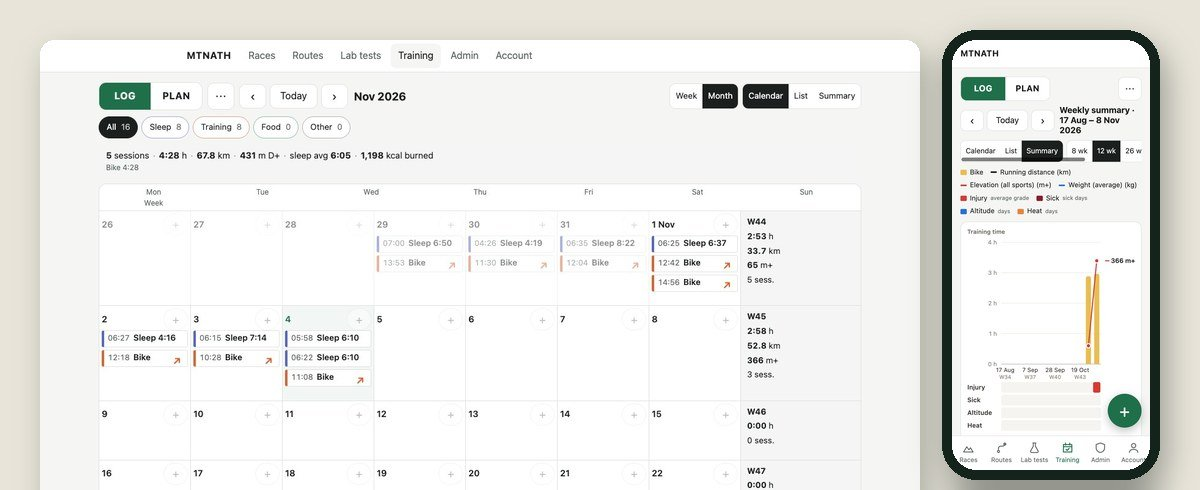
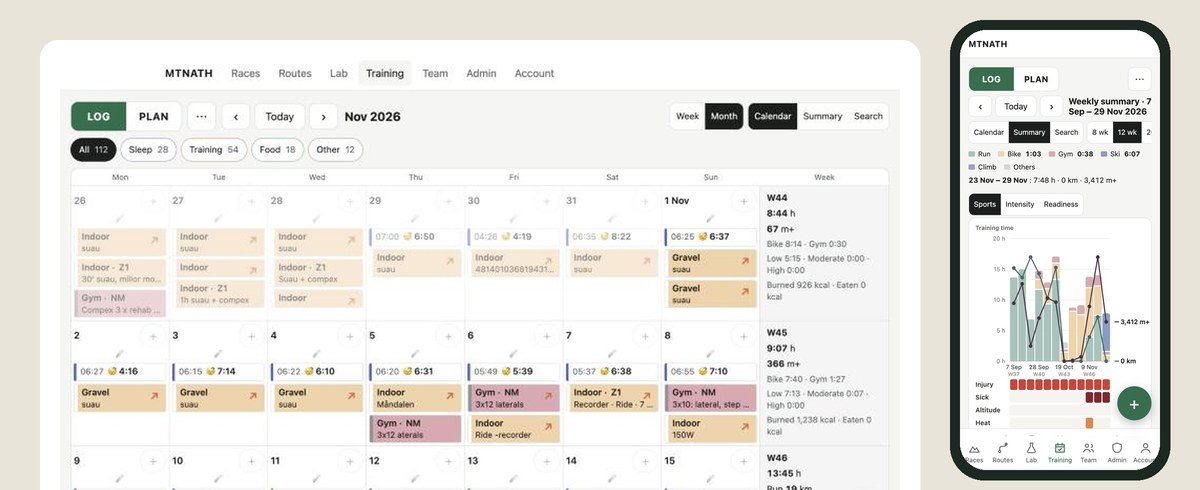
Instructions: Team page + new Training log screenshot (#1)
* Instructions: add the Team page (section 13) and a new Training log screenshot

Claude-Session: https://claude.ai/code/session_01DCeZVPnaAV1NLa2BAzX7rc

* Instructions: new card colours, card text and June 2025 calendar screenshot

Claude-Session: https://claude.ai/code/session_01DCeZVPnaAV1NLa2BAzX7rc

---------

diff --git a/instructions/index.html b/instructions/index.html
@@ -1,6 +1,6 @@
 <!doctype html><html lang="en"><head><meta charset="utf-8"><meta name="viewport" content="width=device-width,initial-scale=1">
 <title>Instructions · MTNATH</title>
-<meta name="description" content="User guide for app.mtnath.com: races, routes, lab tests, recorder, training log and plan, connections and coach sharing.">
+<meta name="description" content="User guide for app.mtnath.com: races, routes, lab tests, recorder, training log and plan, connections, coach sharing and the Team page for coaches.">
 <link rel="icon" href="/assets/favicon.svg" type="image/svg+xml">
 <link rel="stylesheet" href="/assets/sitebar.css">
 
@@ -40,8 +40,8 @@ code{background:var(--code);padding:1px 5px;border-radius:4px}pre code{backgroun
 @media print{nav,#top{display:none}.wrap{display:block}main{border:0;padding:0;margin:0}h2{break-before:page}figure{break-inside:avoid}}
 </style></head><body><header class="sitebar"><div class="in"><a class="logo" href="/">MTNATH</a><nav aria-label="Site"><a href="/">Home</a><a href="/instructions/" aria-current="page">Instructions</a><a href="/methods/">Methods</a><a href="/legal/">Legal</a></nav><a class="cta" href="https://app.mtnath.com">Open the app</a></div></header>
 <div class="wrap">
-<nav><p class="brand">MTNATH</p><p>User guide · app.mtnath.com</p><ol><li><a href="#principles">Principles</a></li><li><a href="#1-getting-started">1. Getting started</a></li><li><a href="#2-races-race-planner">2. Races — race planner</a></li><li><a href="#3-routes-route-planner">3. Routes — route planner</a></li><li><a href="#4-lab-tests">4. Lab</a></li><li><a href="#5-recorder-lab-and-indoor-sessions">5. Recorder — lab and indoor sessions</a></li><li><a href="#6-compare-activities-on-top-of-each-other">6. Compare — activities on top of each other</a></li><li><a href="#7-training-log">7. Training log</a></li><li><a href="#8-training-plan">8. Training plan</a></li><li><a href="#9-visualizer-merge-and-read-activity-files">9. Visualizer — merge and read activity files</a></li><li><a href="#10-account-and-connections">10. Account and connections</a></li><li><a href="#12-sharing-with-a-coach">12. Sharing with a coach</a></li></ol></nav>
-<main><header><h1>Instructions app.mtnath.com</h1><p>2026-11-07 · Kilian Jornet</p></header>
+<nav><p class="brand">MTNATH</p><p>User guide · app.mtnath.com</p><ol><li><a href="#principles">Principles</a></li><li><a href="#1-getting-started">1. Getting started</a></li><li><a href="#2-races-race-planner">2. Races — race planner</a></li><li><a href="#3-routes-route-planner">3. Routes — route planner</a></li><li><a href="#4-lab-tests">4. Lab</a></li><li><a href="#5-recorder-lab-and-indoor-sessions">5. Recorder — lab and indoor sessions</a></li><li><a href="#6-compare-activities-on-top-of-each-other">6. Compare — activities on top of each other</a></li><li><a href="#7-training-log">7. Training log</a></li><li><a href="#8-training-plan">8. Training plan</a></li><li><a href="#9-visualizer-merge-and-read-activity-files">9. Visualizer — merge and read activity files</a></li><li><a href="#10-account-and-connections">10. Account and connections</a></li><li><a href="#12-sharing-with-a-coach">12. Sharing with a coach</a></li><li><a href="#13-team-follow-several-athletes">13. Team — follow several athletes</a></li></ol></nav>
+<main><header><h1>Instructions app.mtnath.com</h1><p>2026-11-25 · Kilian Jornet</p></header>
 
 <h2 id="principles">Principles</h2>
 <ol><li><p><strong>Your data is yours.</strong> You own all of it, decide who sees what, and can take it out at any time.</p></li><li><p><span style="white-space:pre-wrap"><strong>Physiology is complex, so look at it from many sides.</strong> Training stimuli, lifestyle, environmental stimuli, nutrition, hydration, cognition, technique, etc are interconnected. A single point of view cannot give the full picture. Lactate, heart rate, muscle oxygen, sleep, HRV, food, blood tests and injuries make sense next to each other. </span></p></li><li><p><span style="white-space:pre-wrap"><strong>The mountains change, and so do we. Knowing how keeps us safe.</strong> Conditions, avalanche terrain, weather and daylight change outside; fatigue, injuries and form change inside. </span></p></li><li><p><strong>Every athlete is unique.</strong> We differ in our capacities, in how we adapt to each stimulus and in how we react to situations. Training should not follow averages or medians but your own.</p></li><li><p><strong>Every number shows where it comes from.</strong> The app explains its calculations instead of hiding them: estimates are marked <em>est.</em> The tools inform you; you and your coach decide.</p></li><li><p><strong>Learn from your own history.</strong> Injuries, close calls, blood tests and past seasons are a record to look back on, not just a log to fill. Patterns show over years, not weeks.</p></li></ol>
@@ -57,7 +57,7 @@ code{background:var(--code);padding:1px 5px;border-radius:4px}pre code{backgroun
 <div class="tw"><table><thead><tr><th></th><th>Computer</th><th>Phone</th></tr></thead><tbody><tr><td>Main menu</td><td>Top bar: Races · Routes · Lab · Training · Admin · Account</td><td>Bottom bar with the same icons</td></tr><tr><td>Long screens</td><td>Side-by-side panels</td><td>Steps, tabs or panels you open one at a time</td></tr><tr><td>Graphs and maps</td><td>Hover with the mouse to read values</td><td>Touch; to zoom a graph, hold, then drag</td></tr></tbody></table></div>
 <ul><li><p>Only the tools you switch on in <strong>Account → My tools</strong> appear in the menu, and you choose which one the app opens on (section 10).</p></li><li><p><strong>Visualizer</strong> has no menu entry: open it from an activity in <strong>Training</strong>. <strong>Recorder</strong> and <strong>Compare</strong> open from <strong>Lab</strong>.</p></li><li><p>Most lists and screens have a <strong>⋯</strong> menu with the less common actions (export, share, delete).</p></li></ul>
 <h3 id="the-tools-at-a-glance">The tools at a glance</h3>
-<div class="tw"><table><thead><tr><th>Tool</th><th>What it is for</th><th>Where to find it</th></tr></thead><tbody><tr><td>Races</td><td>Race plan: pacing, aid stations, weather, fuelling, GI risk, packing</td><td>Races</td></tr><tr><td>Routes</td><td>Draw and time mountain routes, check conditions, take the map offline</td><td>Routes</td></tr><tr><td>Lab</td><td>My profile and goals; metabolic and GAP tests: zones, VT1/VT2, your own GAP curve; blood tests, injuries and close calls</td><td>Lab</td></tr><tr><td>Recorder</td><td><span style="white-space:pre-wrap">Record and visualize live Bluetooth sensors </span></td><td>Lab → New FREE test</td></tr><tr><td>Compare</td><td>Overlay up to 4 activities</td><td>Lab → Compare activities</td></tr><tr><td>Training log</td><td>Daily sleep, training, food and health data, with summaries</td><td>Training → LOG</td></tr><tr><td>Training plan</td><td>Season, periods, weekly goals and planned sessions</td><td>Training → PLAN</td></tr><tr><td>Visualizer</td><td>Merge and read .fit / .csv files from all your devices</td><td>Training → an activity&#39;s link</td></tr><tr><td>Account</td><td>Profile, tool choice, wearables connections</td><td>Account</td></tr></tbody></table></div>
+<div class="tw"><table><thead><tr><th>Tool</th><th>What it is for</th><th>Where to find it</th></tr></thead><tbody><tr><td>Races</td><td>Race plan: pacing, aid stations, weather, fuelling, GI risk, packing</td><td>Races</td></tr><tr><td>Routes</td><td>Draw and time mountain routes, check conditions, take the map offline</td><td>Routes</td></tr><tr><td>Lab</td><td>My profile and goals; metabolic and GAP tests: zones, VT1/VT2, your own GAP curve; blood tests, injuries and close calls</td><td>Lab</td></tr><tr><td>Recorder</td><td><span style="white-space:pre-wrap">Record and visualize live Bluetooth sensors </span></td><td>Lab → New FREE test</td></tr><tr><td>Compare</td><td>Overlay up to 4 activities</td><td>Lab → Compare activities</td></tr><tr><td>Training log</td><td>Daily sleep, training, food and health data, with summaries</td><td>Training → LOG</td></tr><tr><td>Training plan</td><td>Season, periods, weekly goals and planned sessions</td><td>Training → PLAN</td></tr><tr><td>Visualizer</td><td>Merge and read .fit / .csv files from all your devices</td><td>Training → an activity&#39;s link</td></tr><tr><td>Team</td><td>For coaches: all your athletes on one screen — today, the season, and sessions sent from your library</td><td>Team (turn it on in Account → My tools)</td></tr><tr><td>Account</td><td>Profile, tool choice, wearables connections</td><td>Account</td></tr></tbody></table></div>
 <h2 id="2-races-race-planner">2. Races — race planner</h2>
 <p>Races turns a GPX, a target time and your physiology into a full race plan: pace and arrival time at every aid station, weather along the course, energy burned, a gut-safe nutrition plan, caffeine timing, what to carry and how you will finish. A plan is built in 10 steps; on a computer they run down the left side, on a phone they are tabs across the top. <strong>Save</strong> (top right) stores the race; <strong>←</strong> goes back to your list.</p>
 <h3 id="my-races">My races</h3>
@@ -182,15 +182,15 @@ code{background:var(--code);padding:1px 5px;border-radius:4px}pre code{backgroun
 <p>The Training log is your daily record: sleep, training, food and everything else (illness, injuries, heat and altitude, body data), shown as a calendar, a list or weekly summary charts. Open <strong>Training</strong> and make sure <strong>LOG</strong> is selected. Activities, sleep, weight from connected wearables arrive on their own once connected (section 10).</p>
 <h3 id="views">Views</h3>
 <ul><li><p><strong>Week / Month</strong> with <strong>‹ Today ›</strong> to move in time.</p></li><li><p><strong>Calendar</strong> — coloured bars per entry on each day, with weekly totals (time, km, m+, sessions, kcal) at the end of each week. Tap an entry to open or edit it.</p></li><li><p><strong>List</strong> — a spreadsheet-like table with all fields as columns (sleep, sickness, injuries, environment, training, food, poop/pee, data, other). Training rows have a link to the activity (wearable platform if synchronized or the Visualizer if .fit uploaded or recorded).</p></li><li><p><span style="white-space:pre-wrap"><strong>Summary</strong> — weekly charts over 8, 12, 26 or 52 weeks: training time by sport (run, bike, gym, hike, ski, climb, others) with running distance, elevation and average weight, plus rows for injury, sick days, altitude and heat days, sleep, muscle fatigue, energy, motivation, trust, resting HR and HRV. </span></p></li><li><p>Filters <strong>All · Sleep · Training · Food · Other</strong> (with counts), and a line of totals for the period.</p></li><li><p><strong>Search</strong>: search and filter the whole log, all years (see Search and filter below).</p></li></ul>
-<figure><img loading="lazy" src="img/fig-12.jpg" alt="Training log on computer and phone: month calendar and the weekly summary chart"><figcaption>Left: Calendar view. Right: Summary view with training time and elevation by week.</figcaption></figure>
+<figure><img loading="lazy" src="img/fig-12.jpg" alt="Training log on computer and phone: month calendar with sport-coloured cards and weekly totals, and the 12-week summary chart with injury, sick, altitude and heat rows"><figcaption>Left: Calendar view, cards coloured by sport with weekly totals on the right. Right: Summary view (Sports tab) with training time by sport, running distance and elevation by week, and the injury and sick rows below.</figcaption></figure>
 <h3 id="colours-and-emojis-on-the-cards">Colours and emojis on the cards</h3>
-<p>Training cards are coloured so a week reads at a glance. The <strong>cell colour is the sport</strong>, the <strong>band on the left is the focus</strong> of the session, and some focuses add an <strong>emoji</strong>.</p>
-<div class="tw"><table><thead><tr><th>Cell colour (sport)</th><th></th></tr></thead><tbody><tr><td>Run</td><td>green</td></tr><tr><td>Bike</td><td>yellow</td></tr><tr><td>Ski</td><td>light blue</td></tr><tr><td>Gym</td><td>pink</td></tr><tr><td>Climb</td><td>lilac</td></tr><tr><td>Other sports</td><td>grey</td></tr></tbody></table></div>
-<div class="tw"><table><thead><tr><th>Left band (focus)</th><th></th></tr></thead><tbody><tr><td>Race, PB or Project</td><td>black (always the first band)</td></tr><tr><td>Heat</td><td>orange</td></tr><tr><td>O2</td><td>blue</td></tr><tr><td>NM</td><td>grey</td></tr><tr><td>Long</td><td>green</td></tr><tr><td>Tempo</td><td>pink</td></tr><tr><td>Threshold</td><td>red</td></tr><tr><td>VO2max</td><td>dark red</td></tr><tr><td>Lac</td><td>maroon</td></tr><tr><td>RS</td><td>purple</td></tr><tr><td>No focus</td><td>white</td></tr></tbody></table></div>
+<p>Training cards are coloured so a week reads at a glance. The <strong>card colour is the sport</strong> (the same soft colours as the Summary charts), the <strong>band on the left is the focus</strong> of the session, and some focuses add an <strong>emoji</strong>.</p>
+<div class="tw"><table><thead><tr><th>Cell colour (sport)</th><th></th></tr></thead><tbody><tr><td>Run</td><td><span style="display:inline-block;width:1.4em;height:0.9em;border-radius:3px;vertical-align:-1px;margin-right:6px;background:#A0C4BC;border:1px solid rgba(0,0,0,.12)"></span>sage green</td></tr><tr><td>Bike</td><td><span style="display:inline-block;width:1.4em;height:0.9em;border-radius:3px;vertical-align:-1px;margin-right:6px;background:#F3D3A8;border:1px solid rgba(0,0,0,.12)"></span>sand</td></tr><tr><td>Ski</td><td><span style="display:inline-block;width:1.4em;height:0.9em;border-radius:3px;vertical-align:-1px;margin-right:6px;background:#839DC8;border:1px solid rgba(0,0,0,.12)"></span>blue</td></tr><tr><td>Gym</td><td><span style="display:inline-block;width:1.4em;height:0.9em;border-radius:3px;vertical-align:-1px;margin-right:6px;background:#DFA8B2;border:1px solid rgba(0,0,0,.12)"></span>dusty pink</td></tr><tr><td>Climb</td><td><span style="display:inline-block;width:1.4em;height:0.9em;border-radius:3px;vertical-align:-1px;margin-right:6px;background:#A699D0;border:1px solid rgba(0,0,0,.12)"></span>lilac</td></tr><tr><td>Other sports</td><td><span style="display:inline-block;width:1.4em;height:0.9em;border-radius:3px;vertical-align:-1px;margin-right:6px;background:#D5D5D5;border:1px solid rgba(0,0,0,.12)"></span>light grey</td></tr></tbody></table></div>
+<div class="tw"><table><thead><tr><th>Left band (focus)</th><th></th></tr></thead><tbody><tr><td>Race, PB or Project</td><td><span style="display:inline-block;width:1.4em;height:0.9em;border-radius:3px;vertical-align:-1px;margin-right:6px;background:#000000;border:1px solid rgba(0,0,0,.12)"></span>black (always the first band)</td></tr><tr><td>Heat</td><td><span style="display:inline-block;width:1.4em;height:0.9em;border-radius:3px;vertical-align:-1px;margin-right:6px;background:#F5830A;border:1px solid rgba(0,0,0,.12)"></span>orange</td></tr><tr><td>O2</td><td><span style="display:inline-block;width:1.4em;height:0.9em;border-radius:3px;vertical-align:-1px;margin-right:6px;background:#1B34D3;border:1px solid rgba(0,0,0,.12)"></span>blue</td></tr><tr><td>NM</td><td><span style="display:inline-block;width:1.4em;height:0.9em;border-radius:3px;vertical-align:-1px;margin-right:6px;background:#939393;border:1px solid rgba(0,0,0,.12)"></span>grey</td></tr><tr><td>Long</td><td><span style="display:inline-block;width:1.4em;height:0.9em;border-radius:3px;vertical-align:-1px;margin-right:6px;background:#0E7D04;border:1px solid rgba(0,0,0,.12)"></span>green</td></tr><tr><td>Tempo</td><td><span style="display:inline-block;width:1.4em;height:0.9em;border-radius:3px;vertical-align:-1px;margin-right:6px;background:#F14772;border:1px solid rgba(0,0,0,.12)"></span>pink</td></tr><tr><td>Threshold</td><td><span style="display:inline-block;width:1.4em;height:0.9em;border-radius:3px;vertical-align:-1px;margin-right:6px;background:#EE2244;border:1px solid rgba(0,0,0,.12)"></span>red</td></tr><tr><td>VO2max</td><td><span style="display:inline-block;width:1.4em;height:0.9em;border-radius:3px;vertical-align:-1px;margin-right:6px;background:#880D1E;border:1px solid rgba(0,0,0,.12)"></span>dark red</td></tr><tr><td>Lac</td><td><span style="display:inline-block;width:1.4em;height:0.9em;border-radius:3px;vertical-align:-1px;margin-right:6px;background:#6C0505;border:1px solid rgba(0,0,0,.12)"></span>maroon</td></tr><tr><td>RS</td><td><span style="display:inline-block;width:1.4em;height:0.9em;border-radius:3px;vertical-align:-1px;margin-right:6px;background:#730E87;border:1px solid rgba(0,0,0,.12)"></span>purple</td></tr><tr><td>No focus</td><td><span style="display:inline-block;width:1.4em;height:0.9em;border-radius:3px;vertical-align:-1px;margin-right:6px;background:#FFFFFF;border:1px solid rgba(0,0,0,.12)"></span>white</td></tr></tbody></table></div>
 <p>A card shows <strong>up to two bands</strong>: a session with Threshold + PB gets a black and a red band. With more than two focuses, the first two in the order above are shown. Tech has no colour.</p>
-<p><strong>Emojis</strong>: 🏁 <strong>Race</strong>, ⚡ <strong>PB</strong>, ⛰ <strong>Project</strong>, ⚠ <strong>CloseCall</strong>. They show on the card next to the focus name. The card title is the focus (e.g. Threshold, PB), with the sport in small letters beside it; without a focus, the title is the sport.</p>
+<p><strong>Emojis</strong>: 🏁 <strong>Race</strong>, ⚡ <strong>PB</strong>, ⛰ <strong>Project</strong>, ⚠ <strong>CloseCall</strong>. They show on the card before the focus name, and alone on the small month bars on a phone.</p><p>Each card reads, top to bottom: the <strong>terrain</strong> (Trail, Road, Gravel, Indoor…; the sport when no terrain is set) and the <strong>focus</strong> (e.g. <em>Trail · Threshold, ⚡ PB</em>); then duration · distance · elevation · feel; then the first line of the description. The ↗ opens the activity.</p>
 <p>Set the focus in a Training entry with the <strong>Focus</strong> chips (NM, Long, Tempo, Threshold, VO2max, Lac, RS, Race, Heat, O2, Tech, Project, PB, CloseCall); you can pick several.</p>
-<figure><img loading="lazy" src="img/fig-13.jpg" alt="Month calendar of June 2025: run cells green, bike cells yellow, a Threshold + PB session with a black and red band, and two races with 🏁 and a black band"><figcaption>June 2025: green runs and yellow rides; 16 Jun Threshold + PB (black and red bands); 20 and 28 Jun 🏁 Race (black band).</figcaption></figure>
+<figure><img loading="lazy" src="img/fig-13.jpg" alt="Month calendar of June 2025: run cards sage green, bike cards sand, a Trail · Threshold + PB session on 16 June with a black and a red band, and Trail races on 20 and 28 June with 🏁 and a black band"><figcaption>June 2025: sage-green runs and sand rides; 16 Jun Trail · Threshold + PB (black and red bands); 20 Jun Broken Arrow and 28 Jun Western States, 🏁 Race (black band).</figcaption></figure>
 <h3 id="search-and-filter">Search and filter</h3>
 <p>Tap <strong>Search</strong> (next to Calendar and Summary) to look through the whole log, every year:</p>
 <ul><li><p>Type words in <strong>Search the descriptions and notes…</strong>.</p></li><li><p>Filter with the chips: <strong>Type</strong> (Sleep, Training, Food, Other), <strong>Sport</strong> (Run, Bike, Gym, Ski, Climb, Others) and <strong>Focus</strong> (NM … CloseCall). Chips in the same row add up: Race + PB lists all races and all PBs. Use rows and words together, e.g. Focus Race + Sport Ski for your ski races.</p></li><li><p>The count (&quot;40 cards found&quot;) and <strong>Clear</strong> sit under the chips. The results table has Date, Time, Type, Focus, Sport, Description and Duration, with ↗ to the activity. Tap a row to open and edit the entry.</p></li></ul>
@@ -274,7 +274,7 @@ code{background:var(--code);padding:1px 5px;border-radius:4px}pre code{backgroun
 <h2 id="10-account-and-connections">10. Account and connections</h2>
 <p>Account holds your profile, the tools you see, and the wearables that feed your Training log.</p>
 <h3 id="profile-and-my-tools">Profile and My tools</h3>
-<ul><li><p>Your email and role are shown at the top. Type your <strong>Name</strong> and tap <strong>Save name</strong>.</p></li><li><p><strong>My tools</strong>: tick the tools you want in the menu (Races, Routes, Tests, Training; keep at least one), choose <strong>Open the app on</strong>, and tap <strong>Save my tools</strong>. If the start tool is turned off, the app opens on the first tool shown.</p></li><li><p><strong>Sign out</strong> is at the bottom.</p></li></ul>
+<ul><li><p>Your email and role are shown at the top. Type your <strong>Name</strong> and tap <strong>Save name</strong>.</p></li><li><p><strong>My tools</strong>: tick the tools you want in the menu (Races, Routes, Tests, Training, and Team for coaches, which is off by default; keep at least one), choose <strong>Open the app on</strong>, and tap <strong>Save my tools</strong>. If the start tool is turned off, the app opens on the first tool shown.</p></li><li><p><strong>Sign out</strong> is at the bottom.</p></li></ul>
 <h3 id="connections-account-connections">Connections (Account → Connections ›)</h3>
 <div class="tw"><table><thead><tr><th>Service</th><th>What comes in</th><th>When it syncs</th></tr></thead><tbody><tr><td>COROS (official COROS MCP)</td><td>Activities (start time, sport, duration, distance, elevation gain) and daily health (sleep time, resting HR, nightly HRV)</td><td>Every night (last 7 days) and on <strong>Sync now</strong></td></tr><tr><td>Withings</td><td>Weight</td><td>On every weigh-in, plus every night as a fallback</td></tr></tbody></table></div>
 <p>In the Training log, activities appear as Training cards (with a link to the activity), nights as Sleep cards, and weigh-ins as Other cards; the weekly summary charts them.</p>
@@ -296,6 +296,27 @@ code{background:var(--code);padding:1px 5px;border-radius:4px}pre code{backgroun
 <ol><li><p>Tick what the link opens. Each line says whether the coach can <strong>Edit</strong> it (change it) or only <strong>See</strong> it (view only); untick a line to keep it private.</p></li><li><p><strong>Copy</strong> the <strong>Coach link</strong> and send it to your coach.</p></li><li><p>Change the ticks at any time; the same link then opens more or less.</p></li></ol>
 <div class="tw"><table><thead><tr><th>Tick</th><th>Coach can</th><th>What it opens</th></tr></thead><tbody><tr><td>Training</td><td>Edit</td><td>Edit the plan, season and library of sessions; see the log, its cards, the weekly summary and the Visualizer</td></tr><tr><td>Races</td><td>Edit</td><td>Edit your races in the race planner</td></tr><tr><td>Lab tests</td><td>See</td><td>Test 1, 1b and 2 with their results (zones, VT1 / VT2, GAP)</td></tr><tr><td>Blood tests</td><td>See</td><td>Every blood test and its values</td></tr><tr><td>My profile</td><td>See</td><td>Body, zones, thresholds, GAP, gut, hydration and altitude numbers</td></tr><tr><td>Supplements &amp; medication</td><td>See</td><td>Your list and the doses, shown in the Training log (tick Training too)</td></tr><tr><td>Injuries</td><td>See</td><td>Injuries, check-ins and the 🩹 lines in the log</td></tr><tr><td>Risk and behavior</td><td>See</td><td>Your close calls and dangerous situations</td></tr><tr><td>Compare activities</td><td>Edit</td><td>Open, make and save comparisons of your activities</td></tr></tbody></table></div>
 <figure><img loading="lazy" src="img/fig-22.jpg" alt="Share with coach in Account: nine ticks with Edit or See labels, the coach link with Copy, New link and Stop sharing"><figcaption>Account → Share with coach: everything ticked. Training, Races and Compare activities are Edit; the rest is See only.</figcaption></figure>
-<ul><li><p>Changes show on both sides straight away: what the coach plans appears in your plan, and what you log appears in their view.</p></li><li><p>Anyone who has the link can use it as ticked, so send it only to your coach.</p></li><li><p><strong>New link</strong> makes the old link stop working (use it if the link was shared further). <strong>Stop sharing</strong> turns access off completely.</p></li><li><p>To show a single race to someone else read-only, use <strong>Create share link</strong> in that race&#39;s ⋯ menu instead (section 2).</p></li></ul>
+<ul><li><p>Changes show on both sides straight away: what the coach plans appears in your plan, and what you log appears in their view.</p></li><li><p>Anyone who has the link can use it as ticked, so send it only to your coach.</p></li><li><p><strong>New link</strong> makes the old link stop working (use it if the link was shared further). <strong>Stop sharing</strong> turns access off completely.</p></li><li><p>To show a single race to someone else read-only, use <strong>Create share link</strong> in that race&#39;s ⋯ menu instead (section 2).</p></li><li><p>A coach who follows several athletes can put all their links together on the <strong>Team</strong> page (section 13).</p></li></ul>
+<h2 id="13-team-follow-several-athletes">13. Team — follow several athletes</h2>
+<p>Team is one page for a coach who follows several athletes: who is fine today, how the season looks for everyone, and a library of sessions to send to many athletes at once. It is made for a computer screen. There is no coach account: anyone with an MTNATH account becomes a coach by adding the coach links their athletes send them, and Team shows <strong>only what each athlete ticked</strong> in their link.</p>
+<h3 id="turn-on-team">Turn on Team</h3>
+<p>In <strong>Account → My tools</strong>, tick <strong>Team</strong> and tap <strong>Save my tools</strong>. It is off by default, so athletes never see it unless they want it. Team then appears in the menu and opens at <code>app.mtnath.com/team</code>.</p>
+<h3 id="your-athletes">Your athletes</h3>
+<ol><li><p>Ask each athlete to send you their coach link (<strong>Account → Share with coach → Copy</strong>, section 12).</p></li><li><p>On Team, open <strong>Athletes</strong> and paste the link. The app checks it first and shows the athlete&#39;s name and what the link shares (Training, Injuries, Races…) before you add it.</p></li><li><p>Rename the athlete if you like, choose a <strong>colour</strong> (used for their races and rows), drag to <strong>reorder</strong>, or <strong>remove</strong> them.</p></li></ol>
+<ul><li><p>Up to 60 athletes; the same link can only be added once.</p></li><li><p>Your list is private to you. Administrators cannot see it either, because each link opens another member&#39;s data.</p></li><li><p>If an athlete makes a <strong>New link</strong> or taps <strong>Stop sharing</strong>, their row shows <strong>Link no longer valid</strong>. Ask for the new link and paste it again.</p></li></ul>
+<h3 id="now-table">Now — one line per athlete</h3>
+<p>The <strong>Now</strong> table shows where everyone stands today.</p>
+<div class="tw"><table><thead><tr><th>Column</th><th>What it shows</th></tr></thead><tbody><tr><td>Name</td><td><strong>Red</strong> when an injury is open today (any pain). <strong>Yellow</strong> when sickness was logged today or in the 2 days before. Red wins when both apply.</td></tr><tr><td>Last 7 days</td><td>Time · km · m+ done, against the plan, with the % of planned time done</td></tr><tr><td>Energy, Freshness, Motivation, Confidence</td><td>7-day averages of the Sleep card scores (1 = worst, 5 = best), with <strong>↑</strong> or <strong>↓</strong> when the average is 0.3 or more above or below the 28-day average</td></tr><tr><td>Feel</td><td>7-day average of how the sessions felt, with the same ↑ / ↓</td></tr><tr><td>Last card</td><td>Days since the athlete logged anything</td></tr></tbody></table></div>
+<p>Team never guesses: when a link doesn&#39;t share something, the cell says so — <strong>Training not shared</strong> or <strong>Injuries not shared</strong>.</p>
+<h3 id="season-grid">Season grid</h3>
+<p>The <strong>Season</strong> grid shows all your athletes&#39; seasons side by side, with weeks as columns.</p>
+<ul><li><p>Show <strong>26, 52 or 78 weeks</strong>, and move the window <strong>3 months</strong> back or forward.</p></li><li><p>The <strong>RACES</strong> row at the top has every athlete&#39;s races as chips in the athlete&#39;s colour: season races, races in the race planner, goals and secondary races.</p></li><li><p>One row per athlete. Past weeks show the training done; coming weeks show the goal hours from the athlete&#39;s season. Each week also shows the weeks to the next race (<strong>R</strong> on race week, <strong>−3</strong> three weeks before), the training period as a coloured band, and red or yellow when the athlete was injured or sick that week.</p></li><li><p>Click a cell to open that week in the athlete&#39;s own plan, through their coach link.</p></li></ul>
+<h3 id="team-library">Library → athletes</h3>
+<p>Team has your own library of sessions, separate from any athlete&#39;s library.</p>
+<ol><li><p>Make or edit a session in the <strong>Library</strong> with the same session editor as the Training plan (section 8). In the library there is no day, result or log: it is a template.</p></li><li><p>Tick one or more sessions and one or more athletes.</p></li><li><p>Choose where the copies go: the athletes&#39; <strong>plan</strong> on one day (or a different day per athlete), or their <strong>library</strong>.</p></li><li><p>Tap <strong>Send</strong>. Each athlete gets their own copy, without a result, which you or they can change afterwards.</p></li></ol>
+<p>Sending needs <strong>Training</strong> ticked in that athlete&#39;s link (Training is Edit, section 12). Athletes without it are greyed out in the list.</p>
+<h3 id="team-privacy">What Team can and cannot see</h3>
+<ul><li><p>Everything Team shows or changes goes through each athlete&#39;s coach link, with the same ticks as when you open the link on its own. Team adds no new access.</p></li><li><p>Athletes stay in charge: unticking a line, making a <strong>New link</strong> or <strong>Stop sharing</strong> in their Account changes what you see on Team straight away.</p></li></ul>
+
 
 </main></div><a id="top" href="#" aria-label="Back to top">↑</a><script>const L=[...document.querySelectorAll('.wrap > nav a')],T=L.map(a=>document.getElementById(a.hash.slice(1)));addEventListener('scroll',()=>{let k=0;T.forEach((t,i)=>{if(t&&t.getBoundingClientRect().top<120)k=i});L.forEach((a,i)=>a.classList.toggle('on',i===k))},{passive:true});</script></body></html>
